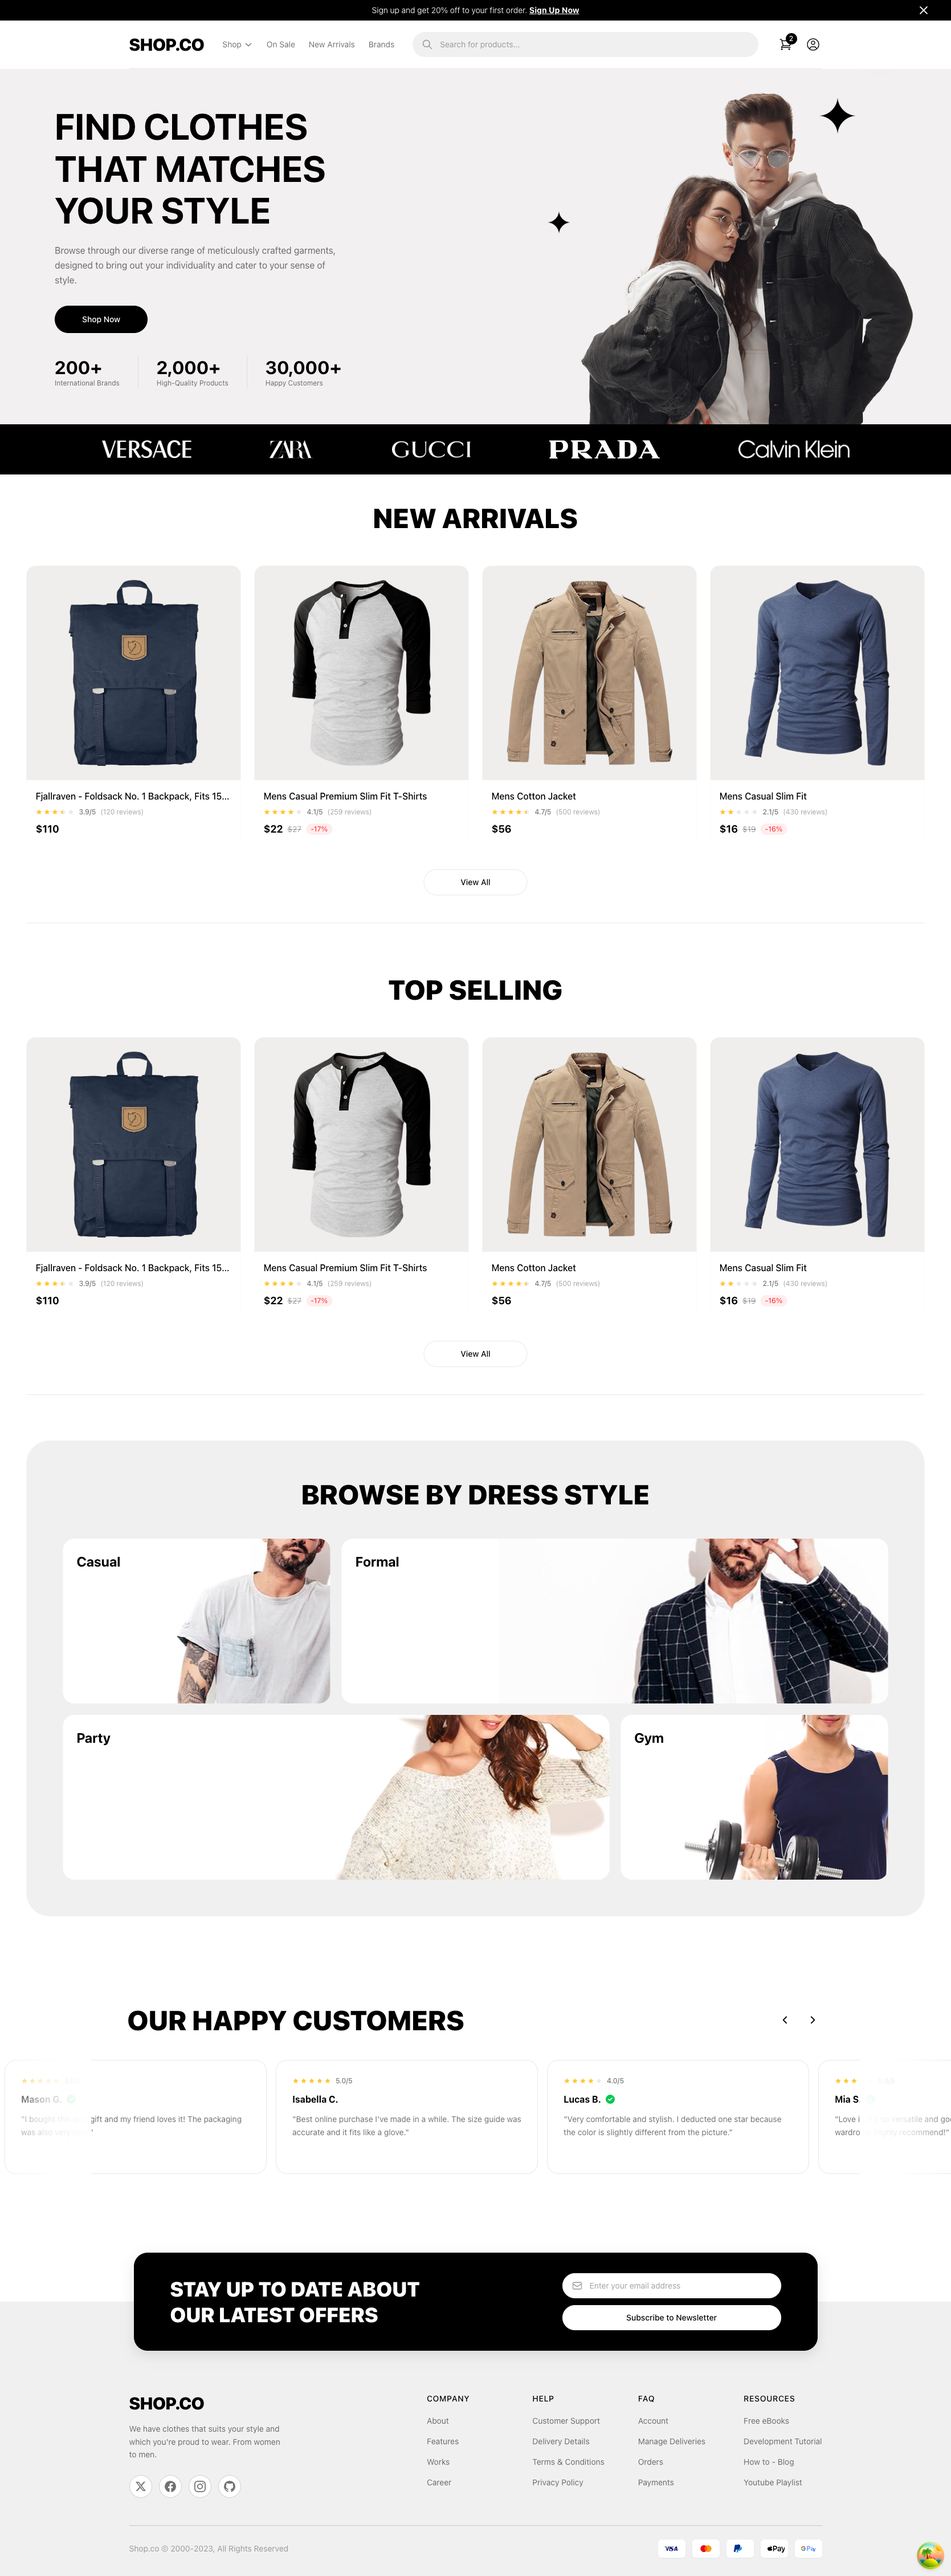
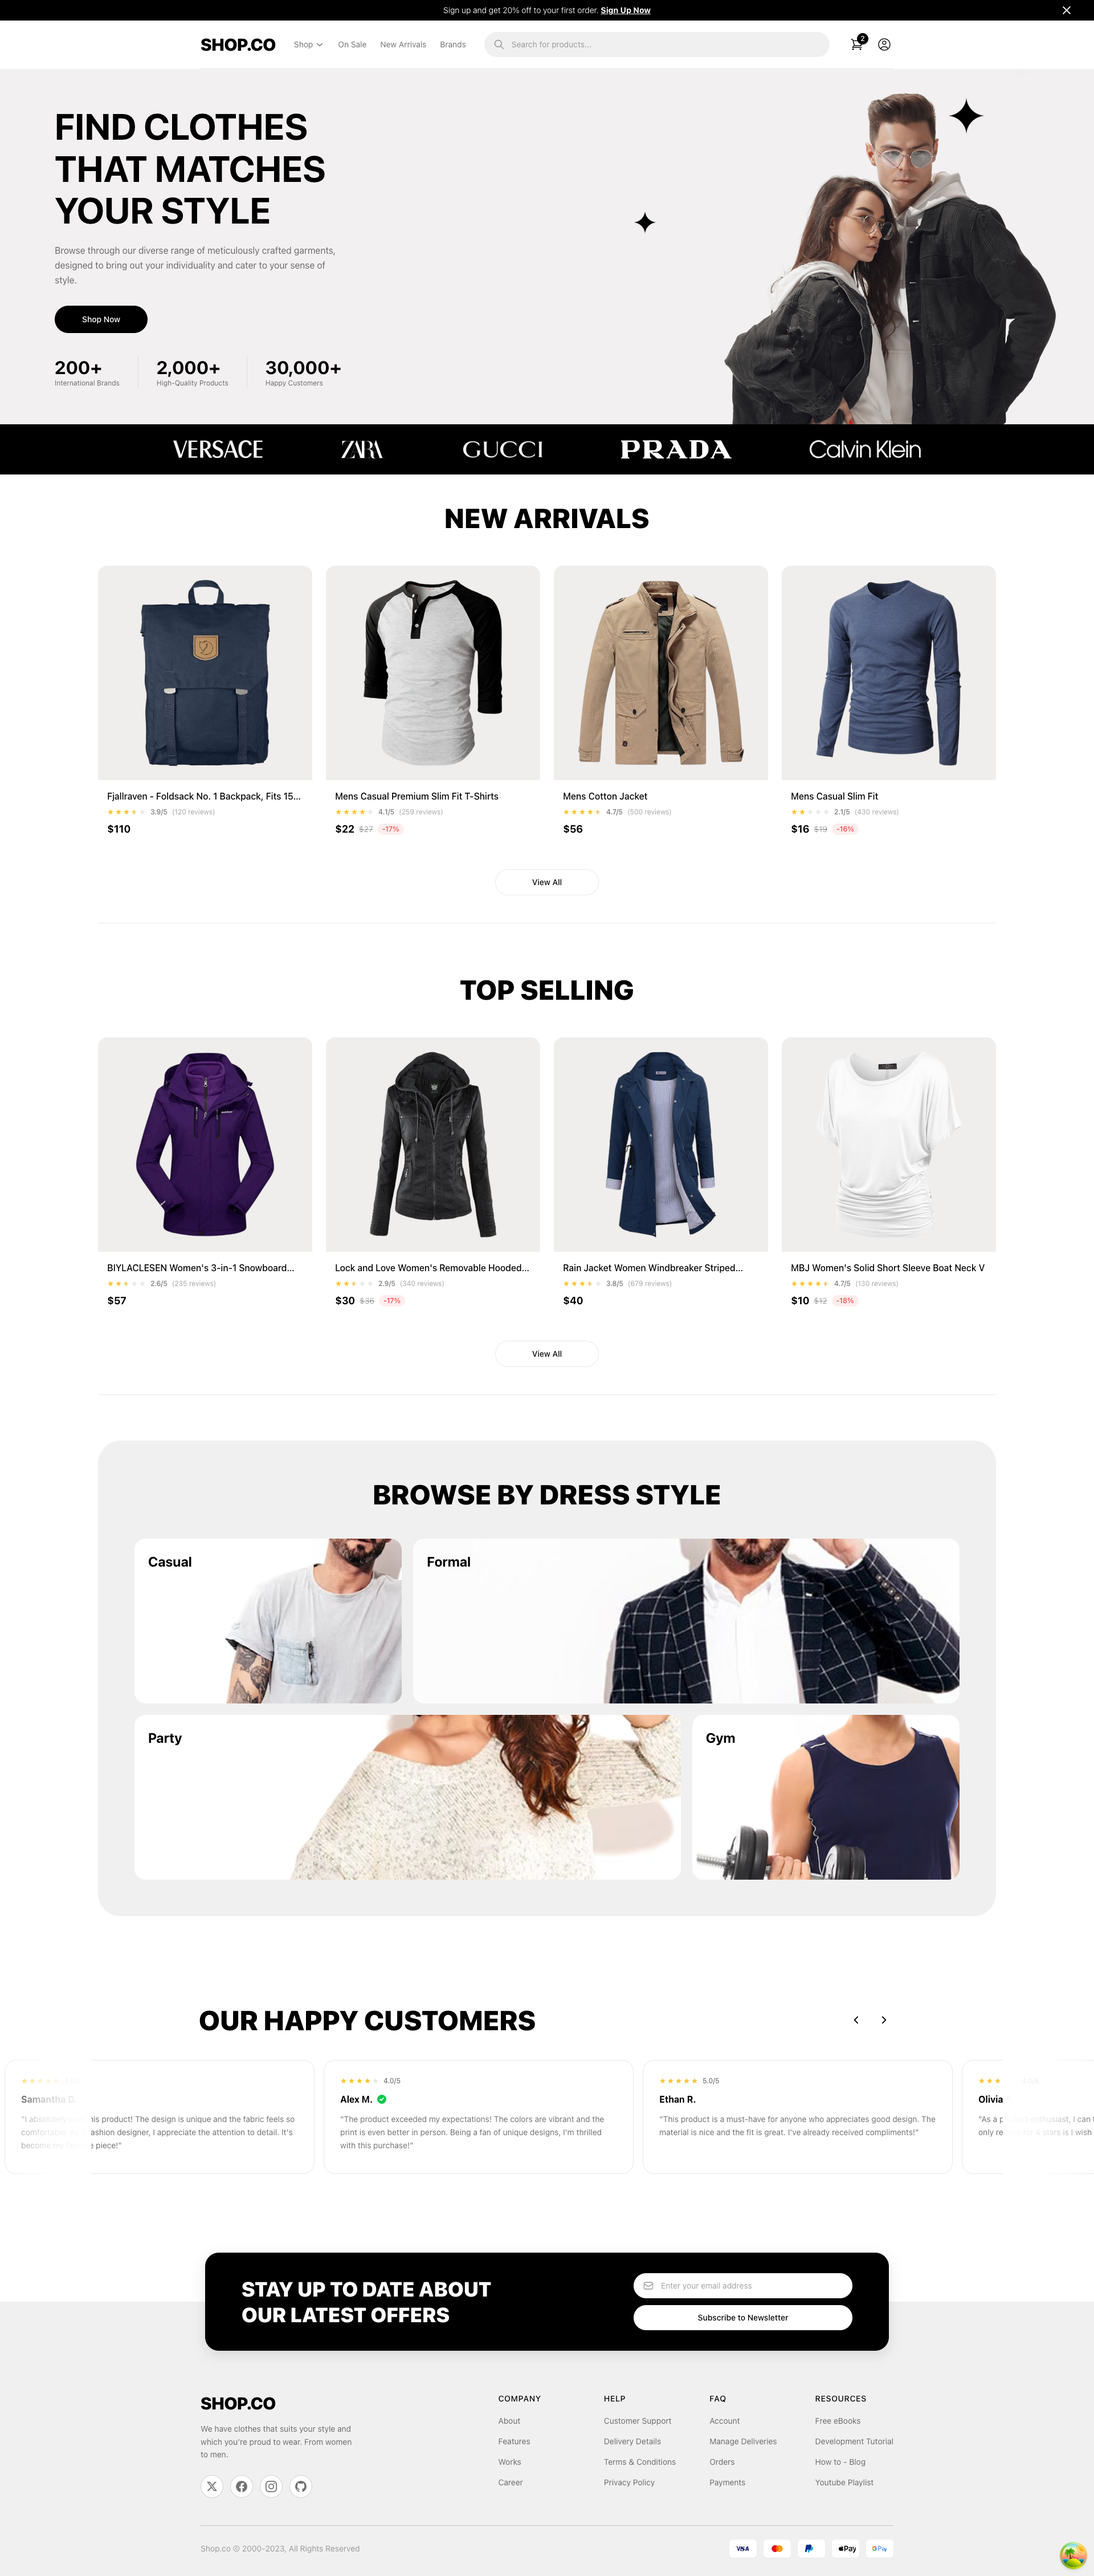
refactor: Improve product image display, refine product data fetching and limiting logic, and update homepage product categories.

diff --git a/src/components/BrowseDressStyle.tsx b/src/components/BrowseDressStyle.tsx
@@ -39,7 +39,7 @@ export function BrowseDressStyle({
           <img
             src={DRESS_STYLES[0].image}
             alt={DRESS_STYLES[0].name}
-            className="absolute right-0 bottom-0 h-full w-auto object-cover object-bottom-right group-hover:scale-105 transition-transform duration-300"
+            className="absolute inset-0 w-full h-full object-cover group-hover:scale-105 transition-transform duration-300"
           />
         </Link>
         <Link
@@ -52,7 +52,7 @@ export function BrowseDressStyle({
           <img
             src={DRESS_STYLES[1].image}
             alt={DRESS_STYLES[1].name}
-            className="absolute right-0 bottom-0 h-full w-auto object-cover object-bottom-right group-hover:scale-105 transition-transform duration-300"
+            className="absolute inset-0 w-full h-full object-cover group-hover:scale-105 transition-transform duration-300"
           />
         </Link>
 
@@ -67,7 +67,7 @@ export function BrowseDressStyle({
           <img
             src={DRESS_STYLES[2].image}
             alt={DRESS_STYLES[2].name}
-            className="absolute right-0 bottom-0 h-full w-auto object-cover object-bottom-right group-hover:scale-105 transition-transform duration-300"
+            className="absolute inset-0 w-full h-full object-cover group-hover:scale-105 transition-transform duration-300"
           />
         </Link>
         <Link
@@ -80,7 +80,7 @@ export function BrowseDressStyle({
           <img
             src={DRESS_STYLES[3].image}
             alt={DRESS_STYLES[3].name}
-            className="absolute right-0 bottom-0 h-full w-auto object-cover object-bottom-right group-hover:scale-105 transition-transform duration-300"
+            className="absolute inset-0 w-full h-full object-cover group-hover:scale-105 transition-transform duration-300"
           />
         </Link>
       </div>
@@ -99,7 +99,7 @@ export function BrowseDressStyle({
             <img
               src={style.image}
               alt={style.name}
-              className="absolute right-0 bottom-0 h-full w-auto object-cover object-bottom-right group-hover:scale-105 transition-transform duration-300"
+              className="absolute inset-0 w-full h-full object-cover group-hover:scale-105 transition-transform duration-300"
             />
           </Link>
         ))}

diff --git a/src/components/ProductSection.tsx b/src/components/ProductSection.tsx
@@ -20,14 +20,20 @@ export function ProductSection({
   });
 
   const allQuery = useGetAllProducts(
-    { limit },
+    {
+      // If we are sorting, we fetch all to ensure we get the correct top items
+      // because fakestoreapi applies limit BEFORE sort.
+      limit: undefined,
+      sort: "desc", // Default to desc for now if "New Arrivals", or we can make it a prop
+    },
     { staleTime: 5 * 60 * 1000, enabled: !category },
   );
 
   const isLoading = category ? categoryQuery.isLoading : allQuery.isLoading;
-  const products = category
-    ? categoryQuery.data?.slice(0, limit)
-    : allQuery.data;
+  const sourceData = category ? categoryQuery.data : allQuery.data;
+
+  // Slice locally to ensure we respect limit after potential sorting
+  const products = sourceData?.slice(0, limit);
 
   const content = (
     <>

diff --git a/src/pages/HomePage.tsx b/src/pages/HomePage.tsx
@@ -16,12 +16,17 @@ export function HomePage() {
       </div>
 
       {/* Product Sections */}
-      <ProductSection title="NEW ARRIVALS" limit={4} useBreakout />
+      <ProductSection
+        title="NEW ARRIVALS"
+        category="men's clothing"
+        limit={4}
+        useBreakout
+      />
 
       {/* Wider Sections Container (Handled internally by components via useBreakout) */}
       <ProductSection
         title="TOP SELLING"
-        category="men's clothing"
+        category="women's clothing"
         limit={4}
         useBreakout
       />
